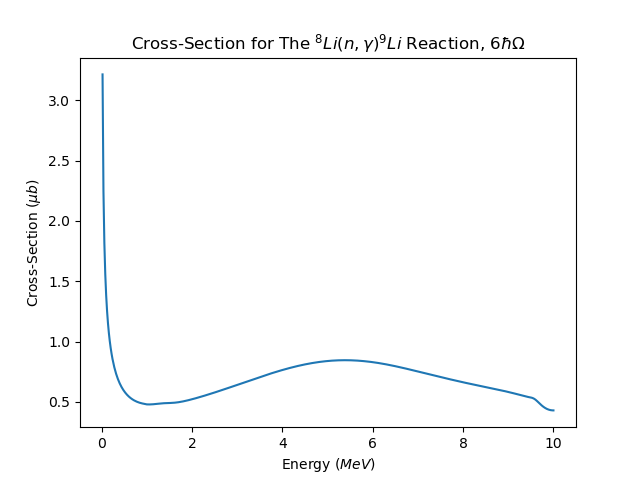
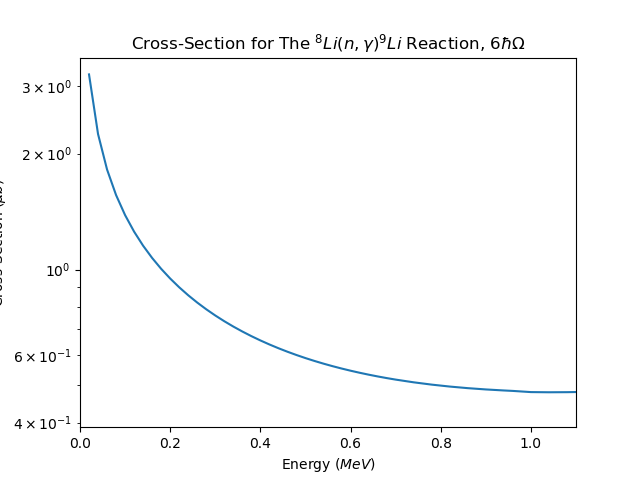
a

diff --git a/cross_sections/plot_cross_section.py b/cross_sections/plot_cross_section.py
@@ -1,7 +1,7 @@
 import matplotlib.pyplot as plt
 
-sigma_gamma_integ = "/global/scratch/ccmccracken/npsm/cross_sections/nLi8_n3lo-NN3Nlnl-srg2.0_20_Nmax6_pheno_all_adjusted_3m/sigma_gamma_integ_nLi8_n3lo-NN3Nlnl-srg2.0_20_Nmax6_pheno_all_adjusted_3m_NCSMC_E1M1E2_Li9_2J_3.agr"
-fig_name = "cross_section_3m.png"
+sigma_gamma_integ = "/global/scratch/ccmccracken/npsm/cross_sections/nLi8_n3lo-NN3Nlnl-srg2.0_20_Nmax6_pheno_all_adjusted_1m/sigma_gamma_integ_nLi8_n3lo-NN3Nlnl-srg2.0_20_Nmax6_pheno_all_adjusted_1m_NCSMC_E1M1E2_Li9_2J_1.agr"
+fig_name = "cross_section_1m.png"
 
 with open(sigma_gamma_integ, "r+") as sig_file:
     lines = sig_file.readlines()
@@ -23,4 +23,7 @@ plt.plot(energies, cross_sections)
 plt.title("Cross-Section for The $^8Li(n, \\gamma) ^9Li$ Reaction, $6\\hbar \\Omega$")
 plt.xlabel("Energy ($MeV$)")
 plt.ylabel("Cross-Section ($\\mu b$)")
+plt.yscale("log")
+plt.xlim(0,1.1)
+plt.xticks(ticks=[0.0,0.2,0.4,0.6,0.8,1.0])
 plt.savefig(fig_name)
